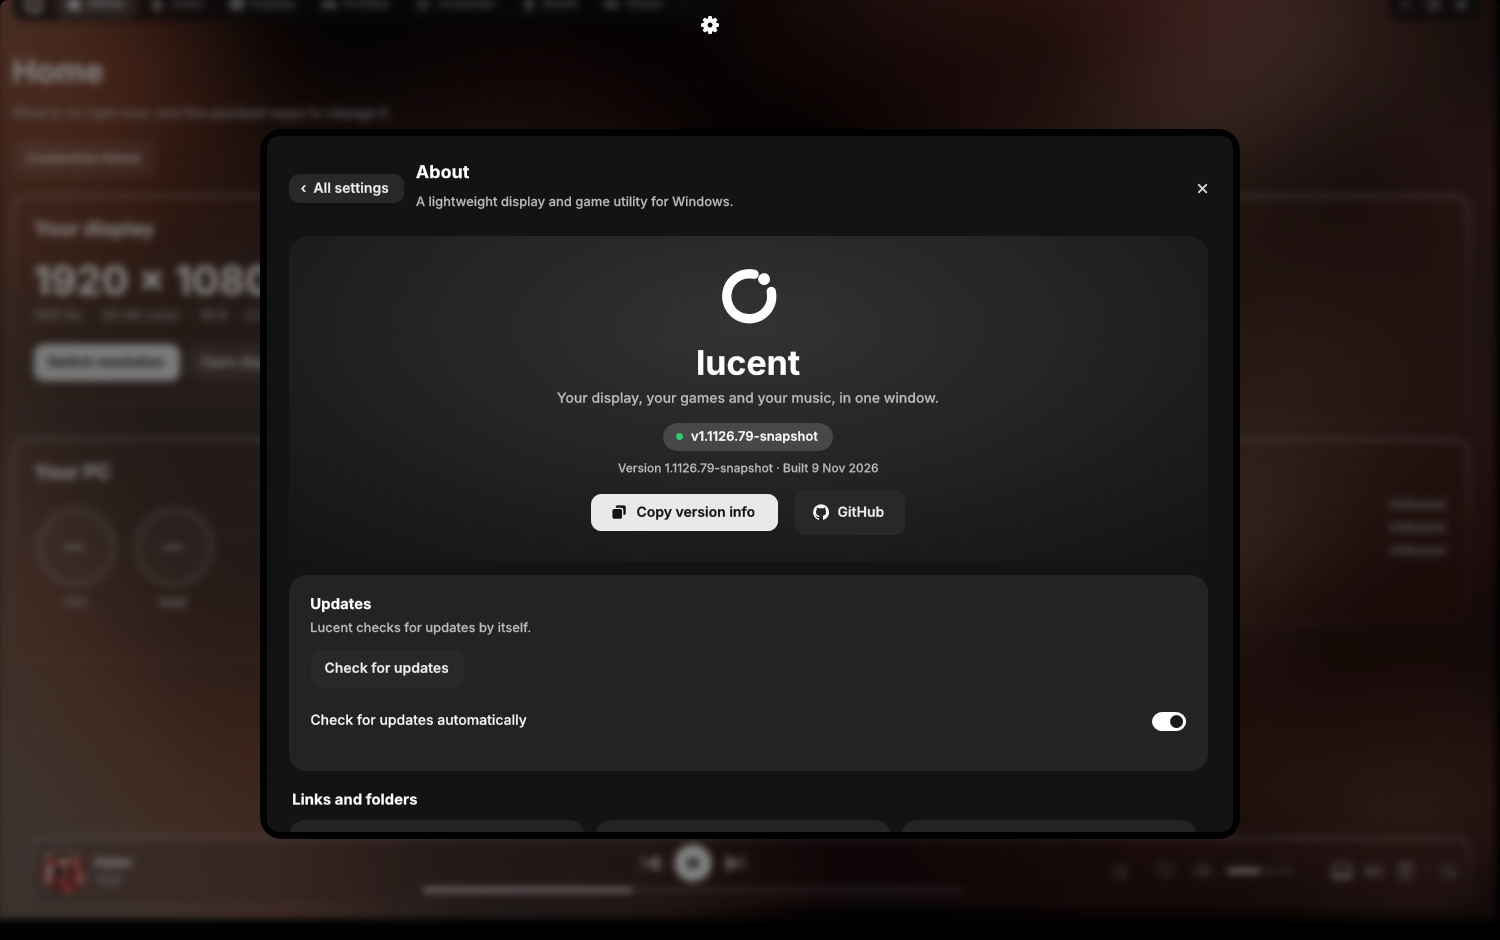
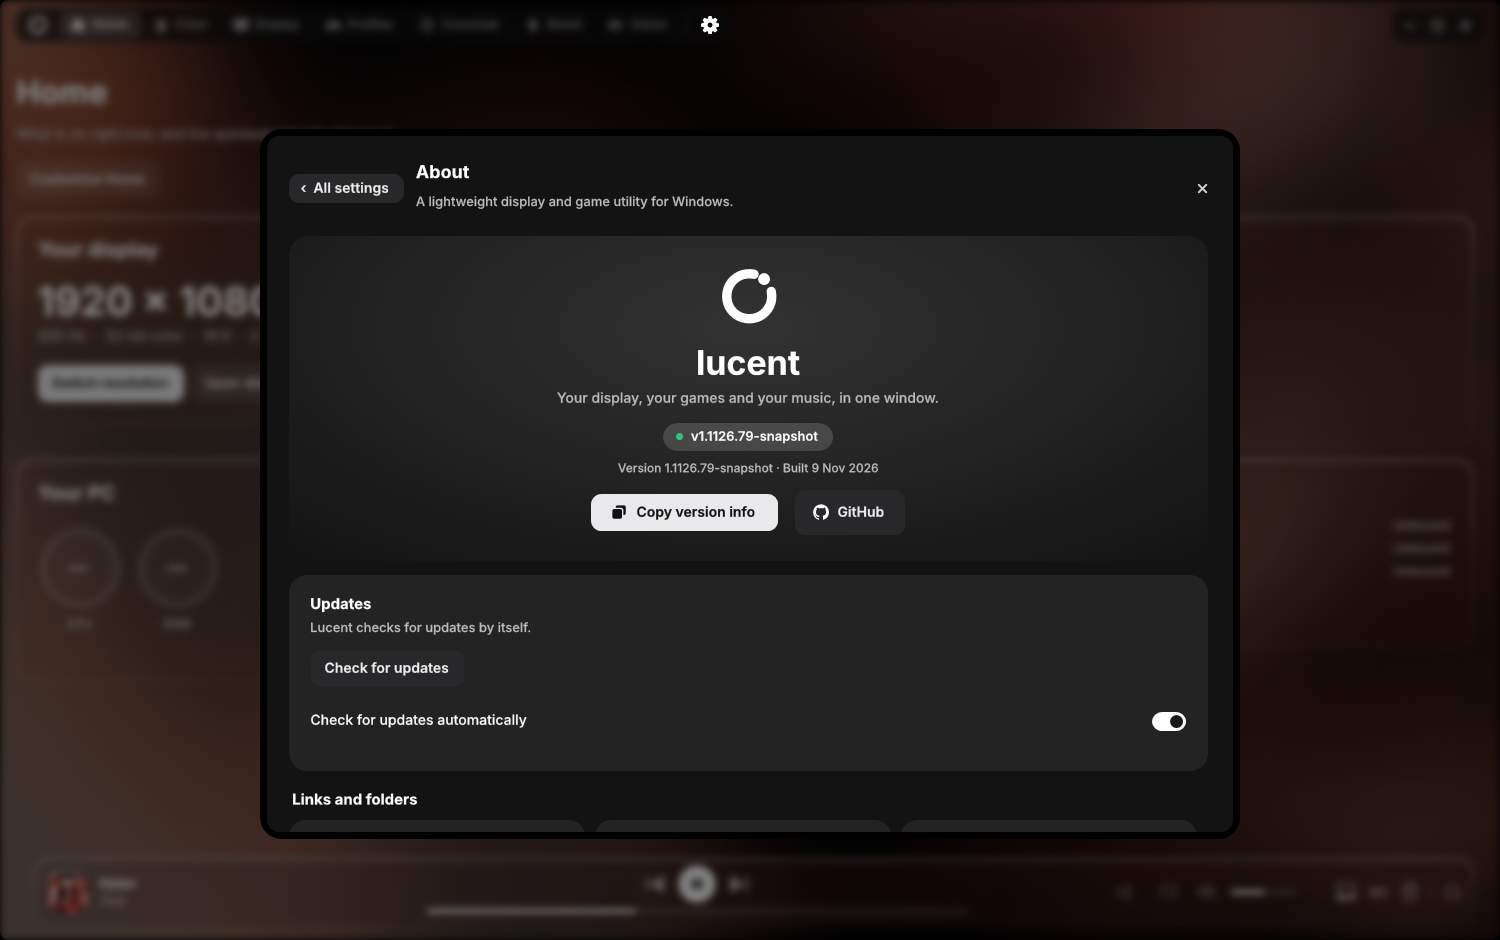
Settings backdrop lines up, crosshair display choice, colors grid removed
The blurred app behind settings is now mapped one to one onto the app, so it no
longer looks zoomed. The crosshair can be shown on any display. The page keeps
just the colors GIF.

diff --git a/tests/ModernUiTests.cs b/tests/ModernUiTests.cs
@@ -82,7 +82,7 @@ class ModernUiTests
    Call(shell,"SetSettingsOpen",false);await Task.Delay(360);Check(!shell.SettingsOpen&&ReferenceEquals(shownPage(),original),"Closing settings reloaded page");
    Check(((Grid)Field(shell,"settingsLayer")).Visibility==Visibility.Hidden&&((UIElement)Field(shell,"settingsBackdropLayer")).Visibility==Visibility.Collapsed&&gear.Opacity==1,"Settings did not retain layout or restore its original gear");
    var settingsCardElement=(UIElement)Field(shell,"settingsCard");// Closed, the card is hidden and sits a little smaller; the open window resting exactly in place is checked in the shell polish test.
-  Check(((Grid)Field(shell,"settingsLayer")).Visibility==Visibility.Hidden||settingsCardElement.RenderTransform==null||settingsCardElement.RenderTransform.Value.IsIdentity,"Settings card is moving while visible after it settled");Check(((VisualBrush)((System.Windows.Shapes.Rectangle)Field(shell,"settingsBackdrop")).Fill).Stretch==Stretch.None,"Settings backdrop is zoomed relative to the page");
+  Check(((Grid)Field(shell,"settingsLayer")).Visibility==Visibility.Hidden||settingsCardElement.RenderTransform==null||settingsCardElement.RenderTransform.Value.IsIdentity,"Settings card is moving while visible after it settled");{var backdropBrush=(VisualBrush)((System.Windows.Shapes.Rectangle)Field(shell,"settingsBackdrop")).Fill;var appRoot=(Grid)Field(shell,"root");Check(backdropBrush.ViewboxUnits==BrushMappingMode.Absolute&&Math.Abs(backdropBrush.Viewbox.Width-(appRoot.ActualWidth+48))<.5&&Math.Abs(backdropBrush.Viewbox.Height-(appRoot.ActualHeight+48))<.5&&backdropBrush.Viewbox.X==-24&&backdropBrush.Viewbox.Y==-24,"Settings backdrop is not mapped one to one onto the page (it looks zoomed)");}
    await CheckSettingsTransition(shell);
    await CheckScrolling(shell,pages);
    var dockTipButton=(Button)Field(shell,"playerDockButton");var dockTip=(ToolTip)dockTipButton.ToolTip;Check(ToolTipService.GetInitialShowDelay(dockTipButton)==500&&ToolTipService.GetBetweenShowDelay(dockTipButton)==500,"Player tooltip delay");
@@ -295,6 +295,19 @@ class ModernUiTests
   // The Crosshair tab: a builder that follows every control, saved looks and shareable codes. There are no ready-made styles.
   var prefs=(Preferences)Field(shell,"preferences");var before=prefs.Crosshair.Copy();
   Call(shell,"ShowPage","Crosshair");shell.UpdateLayout();var page=(DependencyObject)Field(shell,"content");
+  // Which display the crosshair is drawn on: a choice per display (only with more than one), saved, and the overlay follows it (without ever being shown here).
+  var allScreens=System.Windows.Forms.Screen.AllScreens;string keptMonitor=prefs.CrosshairMonitor;
+  var monitorChips=Visuals<Button>(page).Where(b=>(System.Windows.Automation.AutomationProperties.GetName(b)??"").StartsWith("Crosshair on display")).ToArray();
+  Check(monitorChips.Length==(allScreens.Length>1?allScreens.Length:0),"The crosshair page should offer one choice per display when there is more than one: "+monitorChips.Length+" of "+allScreens.Length);
+  if(allScreens.Length>1)
+  {
+   var secondScreen=allScreens.First(s=>!s.Primary);
+   monitorChips.First(b=>Equals(b.Tag,secondScreen.DeviceName)).RaiseEvent(new RoutedEventArgs(Button.ClickEvent));
+   Check(prefs.CrosshairMonitor==secondScreen.DeviceName,"Choosing a display for the crosshair was not saved");
+   using(var overlay=new ResolutionSwitcher.CrosshairOverlay()){overlay.SetMonitor(secondScreen.DeviceName);Check(overlay.Bounds==secondScreen.Bounds,"The crosshair overlay did not move to the chosen display: "+overlay.Bounds+" vs "+secondScreen.Bounds);overlay.SetMonitor("\\\\.\\NOT-CONNECTED");Check(overlay.Bounds==System.Windows.Forms.Screen.PrimaryScreen.Bounds,"A display that is not connected must fall back to the main display");}
+   monitorChips.First(b=>Equals(b.Tag,allScreens.First(s=>s.Primary).DeviceName)).RaiseEvent(new RoutedEventArgs(Button.ClickEvent));
+  }
+  prefs.CrosshairMonitor=keptMonitor;
   // A closed folder has not built its contents yet, so open them all to look inside.
   foreach(var folder in Visuals<Expander>(page).Where(e=>Equals(e.Tag,"Folder")).ToArray())folder.IsExpanded=true;
   shell.UpdateLayout();

diff --git a/source/ShellCrosshair.cs b/source/ShellCrosshair.cs
@@ -75,6 +75,7 @@ namespace Lucent
             card.Children.Add(stage);
             crosshairButton=Action(crosshair==null?"Turn crosshair on":"Turn crosshair off",ToggleCrosshair);
             card.Children.Add(crosshairButton);
+            card.Children.Add(CrosshairMonitorChoices());
             crosshairViews.Add(()=>
             {
                 var spec=CrosshairLook;
@@ -402,11 +403,50 @@ namespace Lucent
         }
         static System.Drawing.Color ToDrawing(Color color){return System.Drawing.Color.FromArgb(color.R,color.G,color.B);}
         void ConfigureCrosshair(){crosshair.Configure(CrosshairLook);}
+        // With more than one display, a choice of which one the crosshair is drawn on.
+        readonly List<Button> crosshairMonitorButtons=new List<Button>();
+        FrameworkElement CrosshairMonitorChoices()
+        {
+            var box=new StackPanel {Margin=new Thickness(0,14,0,0)};
+            crosshairMonitorButtons.Clear();
+            var screens=System.Windows.Forms.Screen.AllScreens;
+            if(screens.Length<2)return box;
+            box.Children.Add(Step("Show the crosshair on"));
+            var row=new WrapPanel();
+            for(int i=0;i<screens.Length;i++)
+            {
+                var screen=screens[i];string device=screen.DeviceName;
+                var chip=Action("Display "+(i+1)+(screen.Primary?" (main)":"")+"  \u00B7  "+screen.Bounds.Width+" \u00D7 "+screen.Bounds.Height,()=>ChooseCrosshairMonitor(device));
+                chip.Tag=device;chip.Padding=new Thickness(16,8,16,8);chip.FontSize=13;chip.MinHeight=0;chip.Margin=new Thickness(0,0,6,6);
+                System.Windows.Automation.AutomationProperties.SetName(chip,"Crosshair on display "+(i+1));
+                crosshairMonitorButtons.Add(chip);row.Children.Add(chip);
+            }
+            box.Children.Add(row);
+            ShowCrosshairMonitor();
+            return box;
+        }
+        // The saved display, or the main one when none is saved or it is not connected.
+        string ChosenCrosshairMonitor()
+        {
+            var screens=System.Windows.Forms.Screen.AllScreens;
+            foreach(var screen in screens)if(string.Equals(screen.DeviceName,preferences.CrosshairMonitor,StringComparison.OrdinalIgnoreCase))return screen.DeviceName;
+            foreach(var screen in screens)if(screen.Primary)return screen.DeviceName;
+            return "";
+        }
+        void ShowCrosshairMonitor(){string chosen=ChosenCrosshairMonitor();foreach(var chip in crosshairMonitorButtons)StyleChoice(chip,Equals(chip.Tag,chosen));}
+        internal void ChooseCrosshairMonitor(string device)
+        {
+            preferences.CrosshairMonitor=device;
+            SaveSoon();
+            if(crosshair!=null)crosshair.SetMonitor(device);
+            ShowCrosshairMonitor();
+            SetStatus("Crosshair moved to that display");
+        }
         Button crosshairButton;
         void ToggleCrosshair()
         {
             if(TestMode)return;
-            if(crosshair==null){crosshair=new CrosshairOverlay();ConfigureCrosshair();crosshair.Show();Count(c=>c.CrosshairUses++);SetStatus("Crosshair on");}
+            if(crosshair==null){crosshair=new CrosshairOverlay();crosshair.SetMonitor(preferences.CrosshairMonitor);ConfigureCrosshair();crosshair.Show();Count(c=>c.CrosshairUses++);SetStatus("Crosshair on");}
             else{crosshair.Dispose();crosshair=null;SetStatus("Crosshair off");}
             crosshairButton.Content=crosshair==null?"Turn crosshair on":"Turn crosshair off";
             UpdateHome();

diff --git a/source/ShellChrome.cs b/source/ShellChrome.cs
@@ -768,7 +768,9 @@ namespace Lucent
             Design.ShareMotion(settingsRailButton,settingsOverlayGear);
             // While settings is closed the copy keeps sitting exactly over the sidebar gear, whatever the window does.
             workspace.LayoutUpdated+=(s,e)=>{if(!settingsOpen)PositionSettingsGear();};
-            settingsBackdrop.Fill=new VisualBrush(root){Stretch=Stretch.None};
+            // The blurred copy of the app behind settings must sit exactly over the app: the brush is mapped to the app's own size, not to the bounds of everything drawn in it
+            // (parts of the app draw past its edge, like the blur under the player bar, and that made the copy look zoomed in).
+            FitSettingsBackdrop();root.SizeChanged+=(s,e)=>FitSettingsBackdrop();
             settingsBackdropLayer.Children.Add(settingsBackdrop);
             windowSurface.ClipToBounds=true;
             Panel.SetZIndex(settingsBackdropLayer,19);
@@ -788,7 +790,13 @@ namespace Lucent
             var corner=VisualTreeHelper.GetOffset(settingsCard);
             settingsCard.RenderTransformOrigin=new Point((middle.X-corner.X)/settingsCard.Width,(middle.Y-corner.Y)/settingsCard.Height);
         }
-        void SizeSettingsPanel()
+        void FitSettingsBackdrop()
+        {
+            double width=root.ActualWidth,height=root.ActualHeight;
+            if(width<=0||height<=0)return;
+            const double bleed=24;   // the backdrop rectangle reaches this far past every edge so its blur has no faded border
+            settingsBackdrop.Fill=new VisualBrush(root){Stretch=Stretch.Fill,AlignmentX=AlignmentX.Left,AlignmentY=AlignmentY.Top,TileMode=TileMode.None,ViewboxUnits=BrushMappingMode.Absolute,Viewbox=new Rect(-bleed,-bleed,width+2*bleed,height+2*bleed),ViewportUnits=BrushMappingMode.RelativeToBoundingBox,Viewport=new Rect(0,0,1,1)};
+        }        void SizeSettingsPanel()
         {
             if(settingsCard==null)return;
             settingsCard.Width=Math.Min(980,Math.Max(600,ActualWidth-130));

diff --git a/source/State.cs b/source/State.cs
@@ -76,6 +76,8 @@ namespace Lucent
         public bool Fahrenheit=false;
         // How Home is laid out: its cards in order, each "name:h" (half width) or "name:f" (full width), with a "!" in front when hidden. Empty means the standard layout.
         public string HomeLayout="";
+        // The display the crosshair is shown on, by its Windows device name. Empty means the main display (also used when the chosen one is not connected).
+        public string CrosshairMonitor="";
         // The mini player: lyrics text size and alignment, which views hide their controls while the pointer rests, how fast its background drifts,
         // and the size each view was last given (0 means the default).
         public double MiniLyricsSize=26,MiniBackdropSpeed=1,MiniCompactWidth,MiniLyricsWidth,MiniLyricsHeight;
@@ -185,6 +187,7 @@ namespace Lucent
             if(value.PlayerPosition!="Left"&&value.PlayerPosition!="Right")value.PlayerPosition="Middle";
             value.PcRings=SystemStats.CleanRings(value.PcRings);
             value.HomeLayout=HomeLayoutText.Clean(value.HomeLayout);
+            if(value.CrosshairMonitor==null)value.CrosshairMonitor="";
             if(value.DiscordSettingVersion<1){value.DiscordOn=true;value.DiscordSettingVersion=1;}
             if(value.Stats==null)value.Stats=new UsageStats();
             var counts=value.Stats;counts.Launches=Math.Max(0,counts.Launches);counts.MinutesOpen=Math.Max(0,counts.MinutesOpen);counts.ResolutionSwitches=Math.Max(0,counts.ResolutionSwitches);counts.ZoomUses=Math.Max(0,counts.ZoomUses);counts.GamesStarted=Math.Max(0,counts.GamesStarted);counts.ProfileSwitches=Math.Max(0,counts.ProfileSwitches);counts.MemoryCleanups=Math.Max(0,counts.MemoryCleanups);counts.CrosshairUses=Math.Max(0,counts.CrosshairUses);

diff --git a/source/legacy/Crosshair.cs b/source/legacy/Crosshair.cs
@@ -30,14 +30,30 @@ namespace ResolutionSwitcher
             Enabled = false;
             TabStop = false;
             BackColor = Color.Magenta; TransparencyKey = Color.Magenta;
-            Bounds = Screen.PrimaryScreen.Bounds;
+            Bounds = TargetScreen().Bounds;
             StartPosition = FormStartPosition.Manual;
             AutoScaleMode = AutoScaleMode.None;
             Microsoft.Win32.SystemEvents.DisplaySettingsChanged += OnDisplaySettingsChanged;
         }
+        // The display the crosshair is drawn on, by its Windows device name; the main display when none is chosen or the chosen one is not connected.
+        private string monitor = "";
+        public string Monitor { get { return monitor; } }
+        public void SetMonitor(string deviceName)
+        {
+            monitor = deviceName ?? "";
+            if (IsDisposed || Disposing) return;
+            RefreshDisplayBounds();
+        }
+        private Screen TargetScreen()
+        {
+            if (!string.IsNullOrEmpty(monitor))
+                foreach (Screen screen in Screen.AllScreens)
+                    if (string.Equals(screen.DeviceName, monitor, StringComparison.OrdinalIgnoreCase)) return screen;
+            return Screen.PrimaryScreen;
+        }
         public void RefreshDisplayBounds()
         {
-            Rectangle current = Screen.PrimaryScreen.Bounds;
+            Rectangle current = TargetScreen().Bounds;
             if (Bounds != current) { Bounds = current; Invalidate(); }
         }
         private void OnDisplaySettingsChanged(object sender, EventArgs e)

diff --git a/source/AssemblyInfo.cs b/source/AssemblyInfo.cs
@@ -1,8 +1,8 @@
 [assembly:System.Reflection.AssemblyTitle("Lucent")]
 [assembly:System.Reflection.AssemblyProduct("Lucent")]
-[assembly:System.Reflection.AssemblyVersion("1.1126.79.0")]
+[assembly:System.Reflection.AssemblyVersion("1.1126.80.0")]
 // Shown to people instead of the number while a build is not a public release.
-[assembly:System.Reflection.AssemblyInformationalVersion("1.1126.79-snapshot")]
+[assembly:System.Reflection.AssemblyInformationalVersion("1.1126.80-snapshot")]
 [assembly:System.Runtime.CompilerServices.InternalsVisibleTo("lucent.tests")]
 
 

diff --git a/README.md b/README.md
@@ -50,18 +50,6 @@ Put a song on and Lucent changes with it. Every album cover gives the window its
 <img src="docs/images/colors-follow-music.gif" alt="The app's colors changing from one album cover to the next" width="640">
 </p>
 
-<table>
-<tr>
-<td align="center"><img src="docs/images/home-furt.png" alt="Home while FURT PYTLE by Sanchez22 plays" width="285"><br><sub>Sanchez22, FURT PYTLE</sub></td>
-<td align="center"><img src="docs/images/home-hater.png" alt="Home while Hater by Yeat plays" width="285"><br><sub>Yeat, Hater</sub></td>
-<td align="center"><img src="docs/images/home-trend.png" alt="Home while Real Trendsetter by Yeat plays" width="285"><br><sub>Yeat, Real Trendsetter</sub></td>
-</tr>
-<tr>
-<td align="center"><img src="docs/images/home-passion.png" alt="Home while Passionfruit by Drake plays" width="285"><br><sub>Drake, Passionfruit</sub></td>
-<td align="center"><img src="docs/images/home-hug.png" alt="Home while Gimme A Hug by Drake plays" width="285"><br><sub>Drake, Gimme A Hug</sub></td>
-<td align="center"><img src="docs/images/home-fein.png" alt="Home while FE!N by Travis Scott plays" width="285"><br><sub>Travis Scott, FE!N</sub></td>
-</tr>
-</table>
 ## Take a look
 
 <table>
